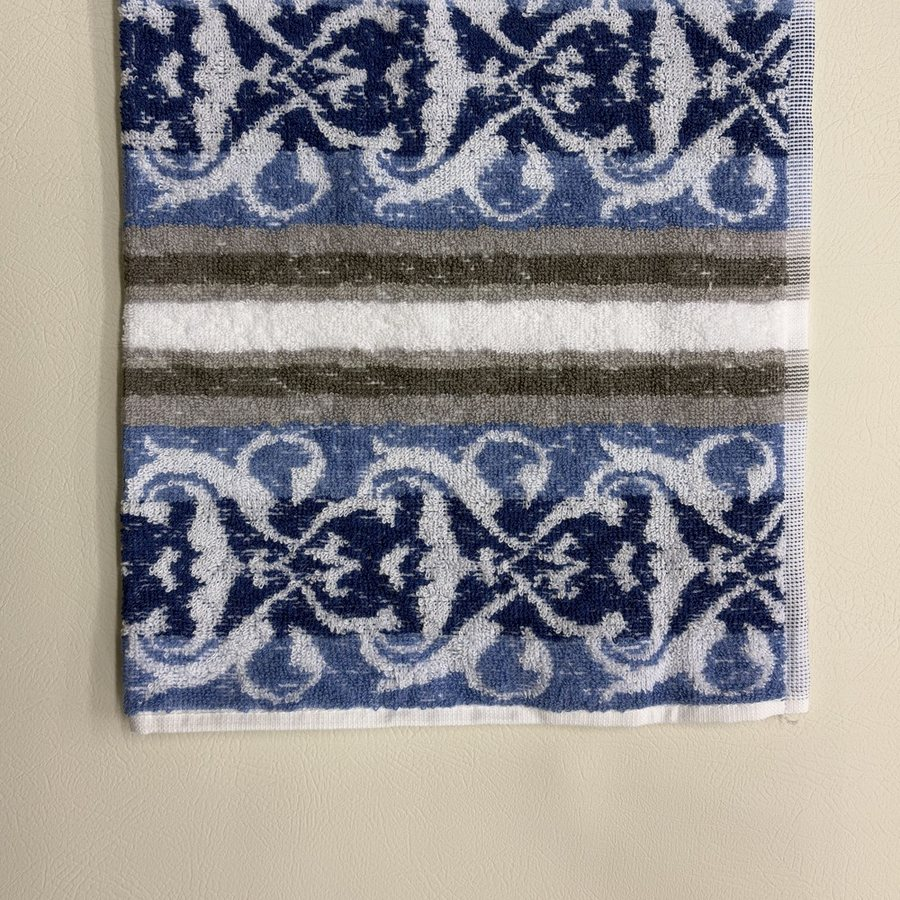
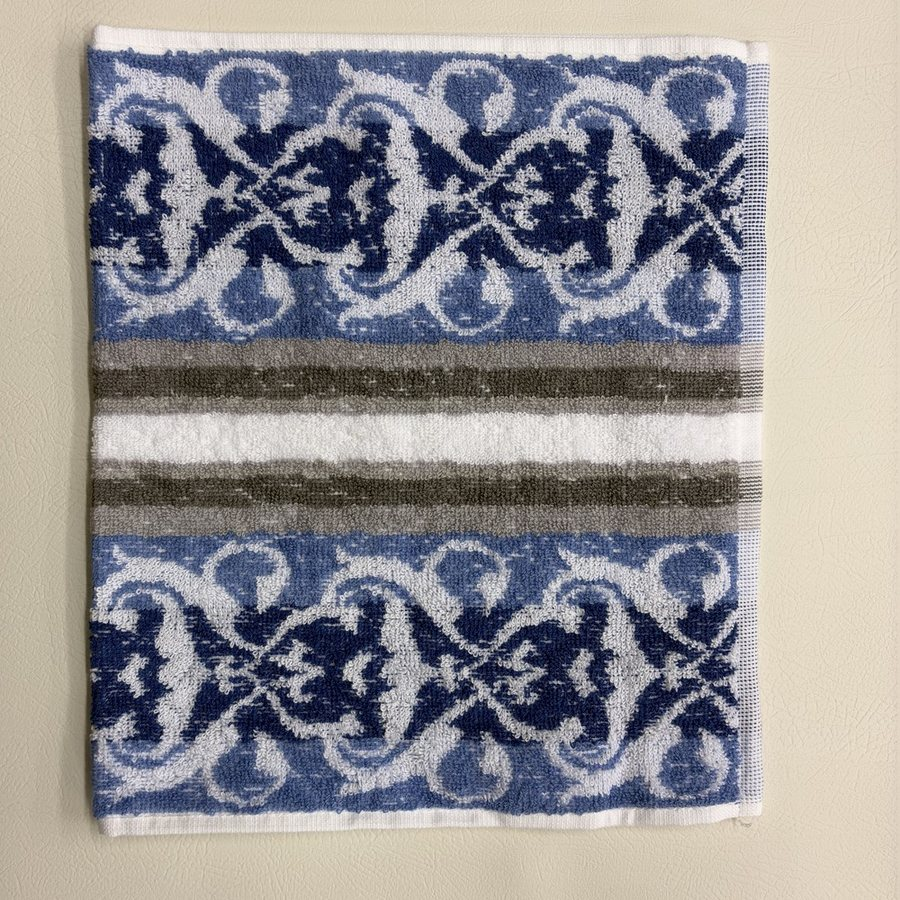
Website: Colibri towel photo 1 shows the whole towel
Claude-Session: https://claude.ai/code/session_01FrAdmZhbnvV2Pi8Ea2YxmY

diff --git a/marketing/website/new-products/crop-photos.py b/marketing/website/new-products/crop-photos.py
@@ -4,7 +4,7 @@ from PIL import Image, ImageFilter
 CROPS = {
  'army_navy_needles_1': (.55,.44,.89), 'army_navy_needles_2': (.56,.495,1.27), 'upholstery_needles': (.5,.49,1.0),
  'measuring_tape': (.51,.43,.98), 'thick_needle_12cm': (.56,.43,.82), 'block_hand_towel': (.545,.505,1.32),
- 'colibri_guest_towel_1': (.525,.57,.86), 'colibri_guset_towel_2': (.525,.47,.98), 'colibri_guset_towel_3': (.525,.415,.93),
+ 'colibri_guest_towel_1': (.5625,.49,.88), 'colibri_guset_towel_2': (.525,.47,.98), 'colibri_guset_towel_3': (.525,.415,.93),
  'dice_100pkt_5mm': (.565,.405,.82), 'dice_100pkt_9mm': (.54,.435,.82), 'dice_20pkt': (.56,.405,.68),
  'shirring_elastic_black_10g': (.485,.47,.68), 'shirring_elastic_white_10g': (.535,.475,.6), 'shirring_elastic_black_30m': (.475,.435,.56),
  'shirring_elastic_white_30m_1': (.51,.475,.66), 'shirring_elastic_white_30m_2': (.41,.385,.66), 'sisal_dry_twine': (.435,.425,.98),
